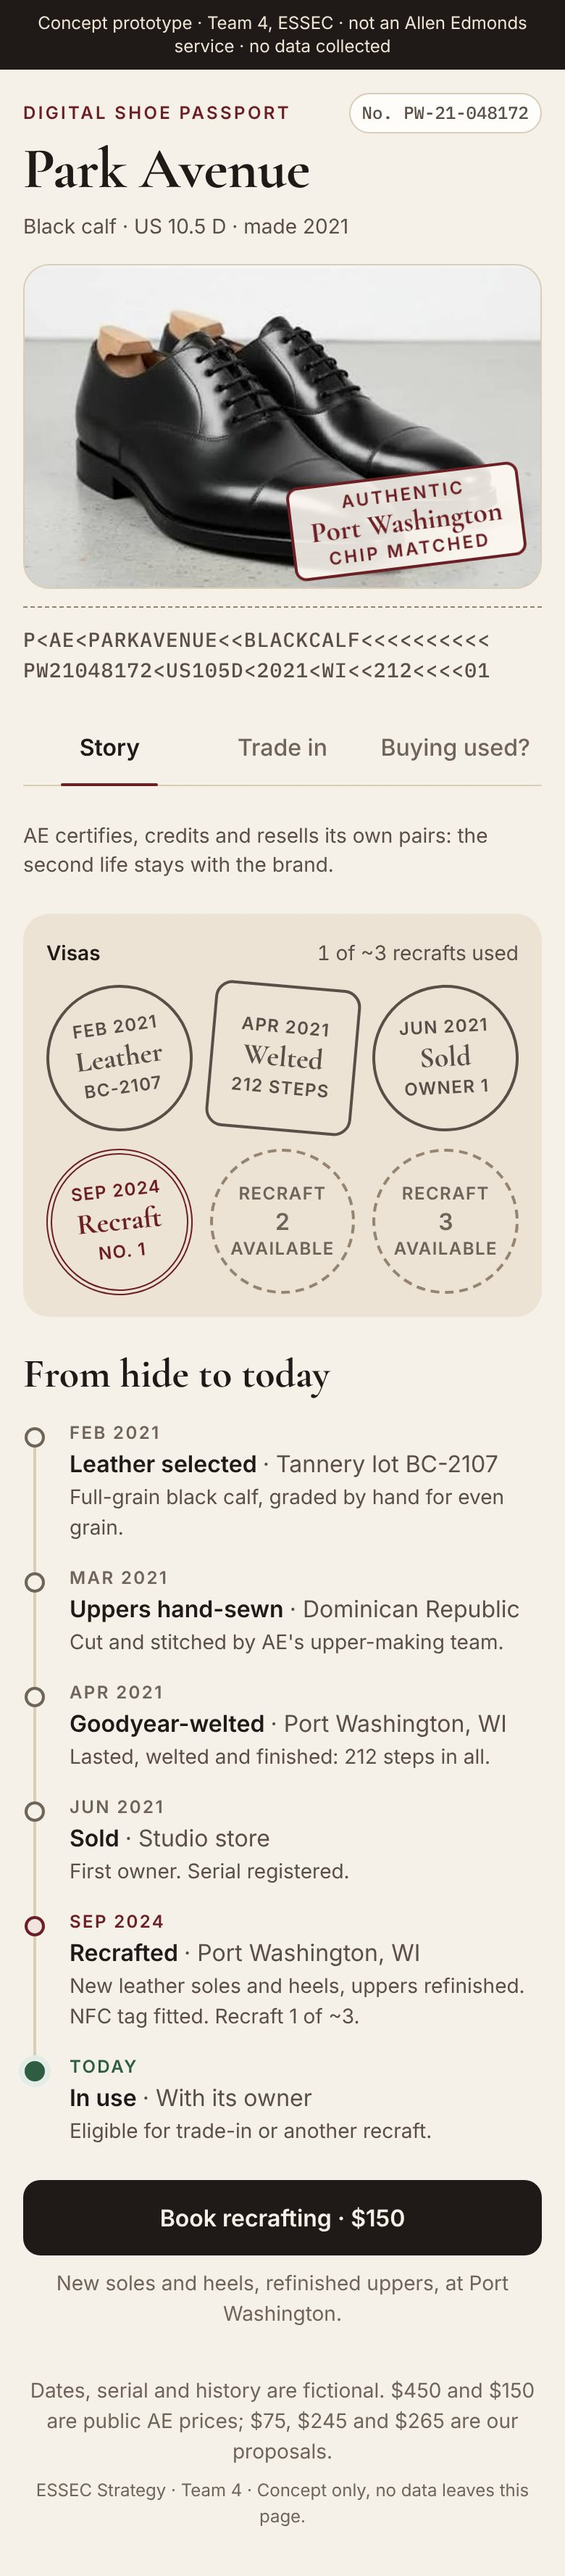
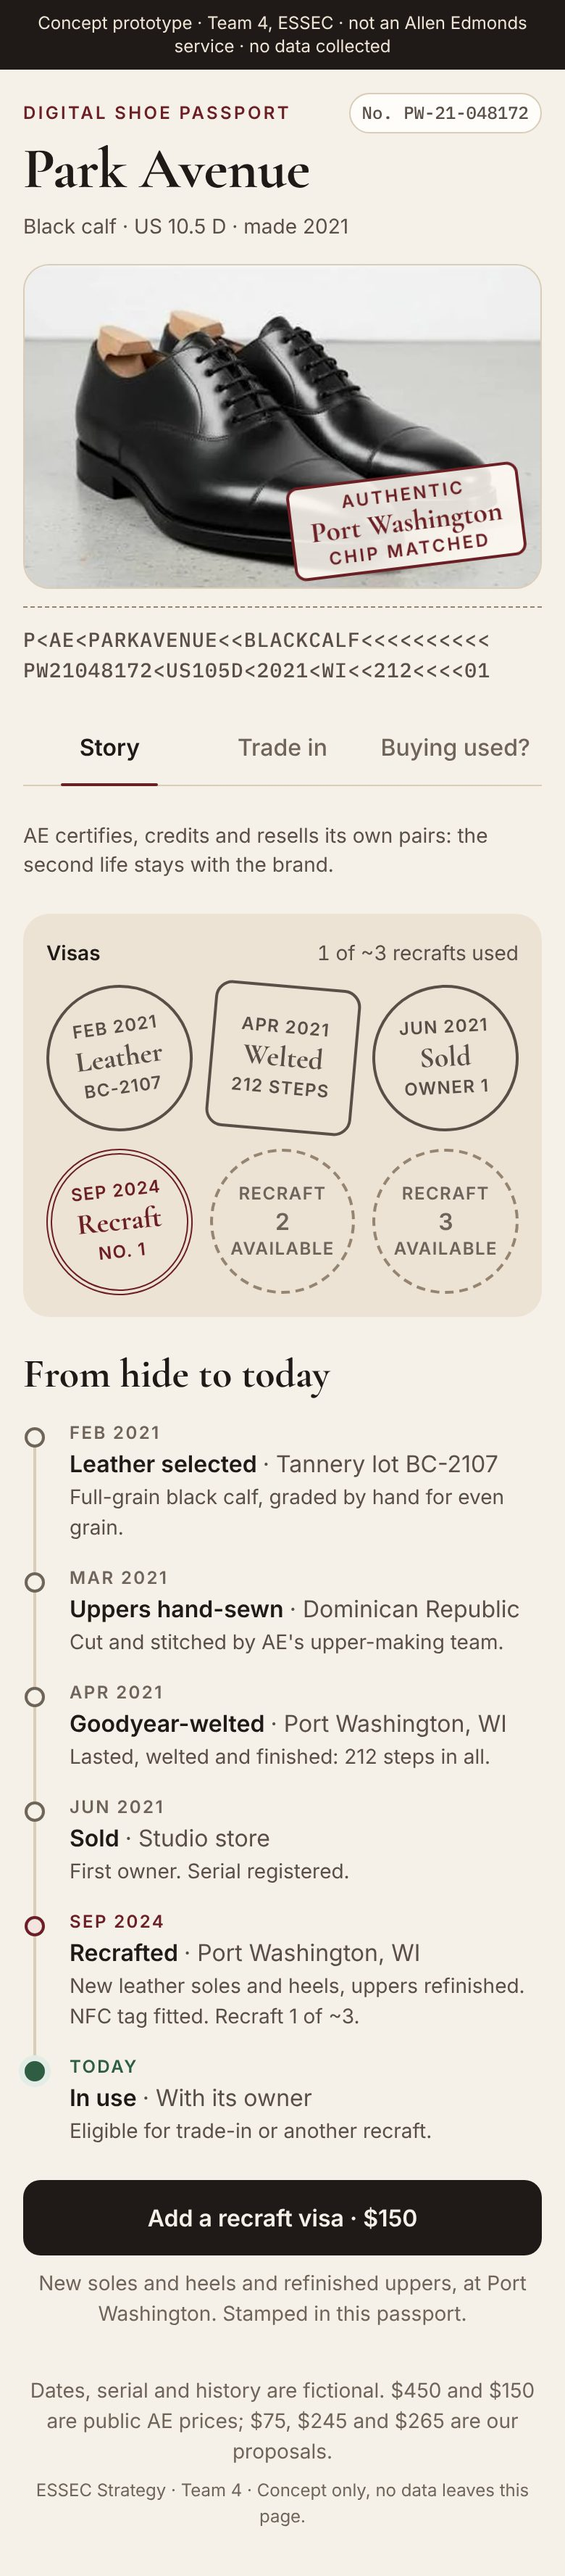
UI: passport metaphor in action buttons (6.C, piste 4)
- Trade A/B: "Close my passport · $75 credit"; step 3 says a new owner opens
  the next page
- Recraft (Story and grade C): "Add a recraft visa · $150", stamped as a new
  visa in this passport
- Leather damage: "Retire this passport · free"; step 2 says the passport is
  retired
- Buyer: "Take over this passport · $245"; intro says the passport is
  transferred to you
- Demo toasts keep saying nothing was sent ("passport still open")

Claude-Session: https://claude.ai/code/session_011HZUeif1ceEsP75kFHiSid

Changed region(s): [[0.1538, 0.8438, 0.8308, 0.9062], [0.8615, 0.875, 0.8923, 0.9062]]

diff --git a/components/tabs/TradeTab.tsx b/components/tabs/TradeTab.tsx
@@ -206,10 +206,10 @@ export default function TradeTab({
           <ol className="steps">
             <li><span className="step-n">1</span><span><b>Drop off</b> at a Studio store, or ship it free.</span></li>
             <li><span className="step-n">2</span><span>{abGrade === "A" ? <><b>Cleaned and checked</b> by AE, no refurb needed.</> : <><b>Light refurb</b> by AE at the Studio, to AE&apos;s grading standard.</>}</span></li>
-            <li><span className="step-n">3</span><span><b>Resold as Certified Pre-Owned</b> at ~{usd(RESALE_BY_GRADE[abGrade])}, with its passport.</span></li>
+            <li><span className="step-n">3</span><span><b>Resold as Certified Pre-Owned</b> at ~{usd(RESALE_BY_GRADE[abGrade])}, with its passport: <b>a new owner opens the next page</b>.</span></li>
           </ol>
-          <button className="btn btn-primary" onClick={() => notify("no credit issued, nothing sent.")}>
-            Get my {CREDIT} credit
+          <button className="btn btn-primary" onClick={() => notify("no credit issued, passport still open.")}>
+            Close my passport · {CREDIT} credit
           </button>
         </div>
 
@@ -228,10 +228,10 @@ export default function TradeTab({
           </p>
           <ol className="steps">
             <li><span className="step-n">1</span><span><b>Ship it</b> or drop it at a Studio store.</span></li>
-            <li><span className="step-n">2</span><span><b>Rebuilt</b> on its original last, then logged in this passport.</span></li>
+            <li><span className="step-n">2</span><span><b>Rebuilt</b> on its original last, then stamped as a new visa in this passport.</span></li>
           </ol>
           <button className="btn btn-primary" onClick={() => notify("no booking made, nothing sent.")}>
-            Book recrafting · {RECRAFT}
+            Add a recraft visa · {RECRAFT}
           </button>
         </div>
 
@@ -250,10 +250,10 @@ export default function TradeTab({
           </p>
           <ol className="steps">
             <li><span className="step-n">1</span><span><b>Drop it</b> at a Studio store, or ship it free.</span></li>
-            <li><span className="step-n">2</span><span><b>Recycled</b> through AE&apos;s take-back program.</span></li>
+            <li><span className="step-n">2</span><span><b>Recycled</b> through AE&apos;s take-back program, and the passport is retired.</span></li>
           </ol>
-          <button className="btn btn-primary" onClick={() => notify("no pickup booked, nothing sent.")}>
-            Arrange free take-back
+          <button className="btn btn-primary" onClick={() => notify("no pickup booked, passport still open.")}>
+            Retire this passport · free
           </button>
         </div>
       </div>

diff --git a/components/tabs/BuyerTab.tsx b/components/tabs/BuyerTab.tsx
@@ -25,7 +25,7 @@ export default function BuyerTab({ pair, notify, grade }: { pair: Pair; notify: 
   return (
     <>
       <h2 className="h2">Certified Pre-Owned</h2>
-      <p className="muted">Once traded in and certified, this pair is listed like this for its next owner.</p>
+      <p className="muted">Once traded in and certified, this pair is listed with its passport. Buy it and the passport is transferred to you.</p>
 
       <div className="card card-raised listing mt-4">
         <div className="listing-hero">
@@ -59,7 +59,7 @@ export default function BuyerTab({ pair, notify, grade }: { pair: Pair; notify: 
 
         <p className="partner">Sold on the Pre-Owned tab of <span translate="no">allenedmonds.com</span>, run with our partner Archive.</p>
         <button className="btn btn-primary" onClick={() => notify("no checkout, nothing charged.")}>
-          Add to cart · {usd(price)}
+          Take over this passport · {usd(price)}
         </button>
       </div>
     </>

diff --git a/components/tabs/StoryTab.tsx b/components/tabs/StoryTab.tsx
@@ -33,10 +33,11 @@ export default function StoryTab({ pair, notify }: { pair: Pair; notify: Notify 
 
       <div className="section">
         <button className="btn btn-primary" onClick={() => notify("no booking made, nothing sent.")}>
-          Book recrafting · {usd(150)}
+          Add a recraft visa · {usd(150)}
         </button>
         <p className="small center mt-2">
-          New soles and heels, refinished uppers, at <span translate="no">Port Washington</span>.
+          New soles and heels and refinished uppers, at <span translate="no">Port Washington</span>. Stamped in
+          this passport.
         </p>
       </div>
     </>

diff --git a/AMELIORATIONS-UI.md b/AMELIORATIONS-UI.md
@@ -258,7 +258,7 @@ C'est ce qui ferait passer le prototype de « fiche produit soignée » à « co
 - [x] N° de série et ligne codée en chasse fixe (IBM Plex Mono via `next/font`, seulement là)
 - [x] Page de visas (onglet Story) : un tampon par étape (cuir, trépointe, vente), un tampon bordeaux par ressemelage, des cases en pointillés pour ceux qui restent. La frise détaillée est conservée en dessous
 - [ ] Piste 1 complète (page d'identité avec champs alignés) : non retenue, seule sa ligne codée est reprise
-- [ ] Piste 4 (« Mettre fin à ce passeport » / « Le passeport vous est transféré ») : pas faite, à décider
+- [x] Piste 4 : boutons « Close my passport · $75 credit », « Add a recraft visa · $150 », « Retire this passport · free », « Take over this passport · $245 » ; étapes et textes d'intro alignés (nouvelle page pour le prochain propriétaire, visa tamponné, passeport retiré, passeport transféré)
 
 ---
 
